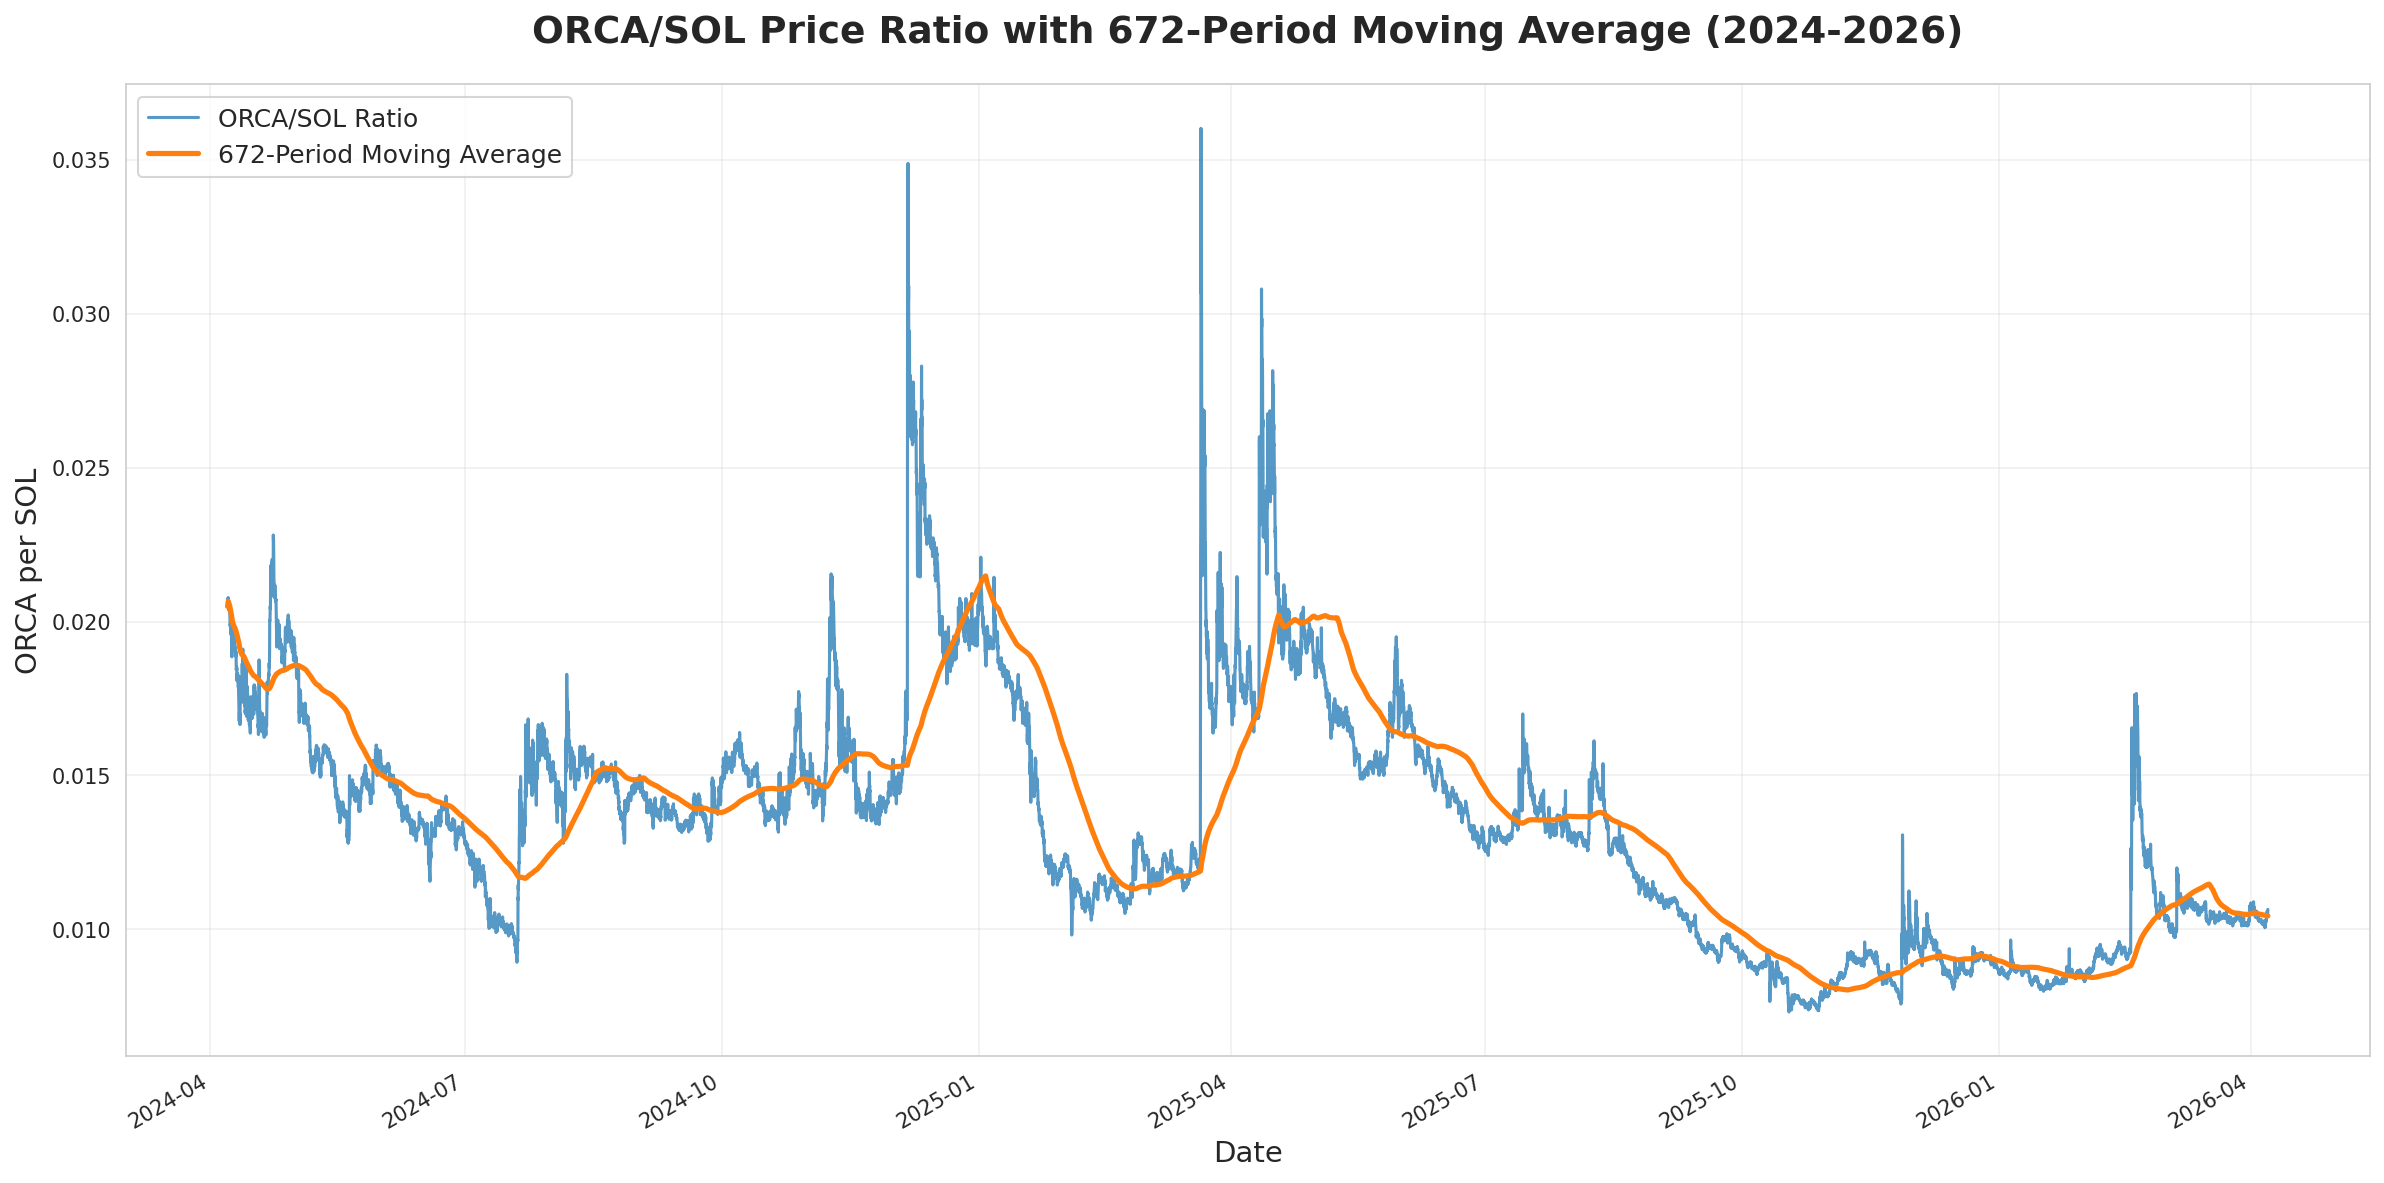
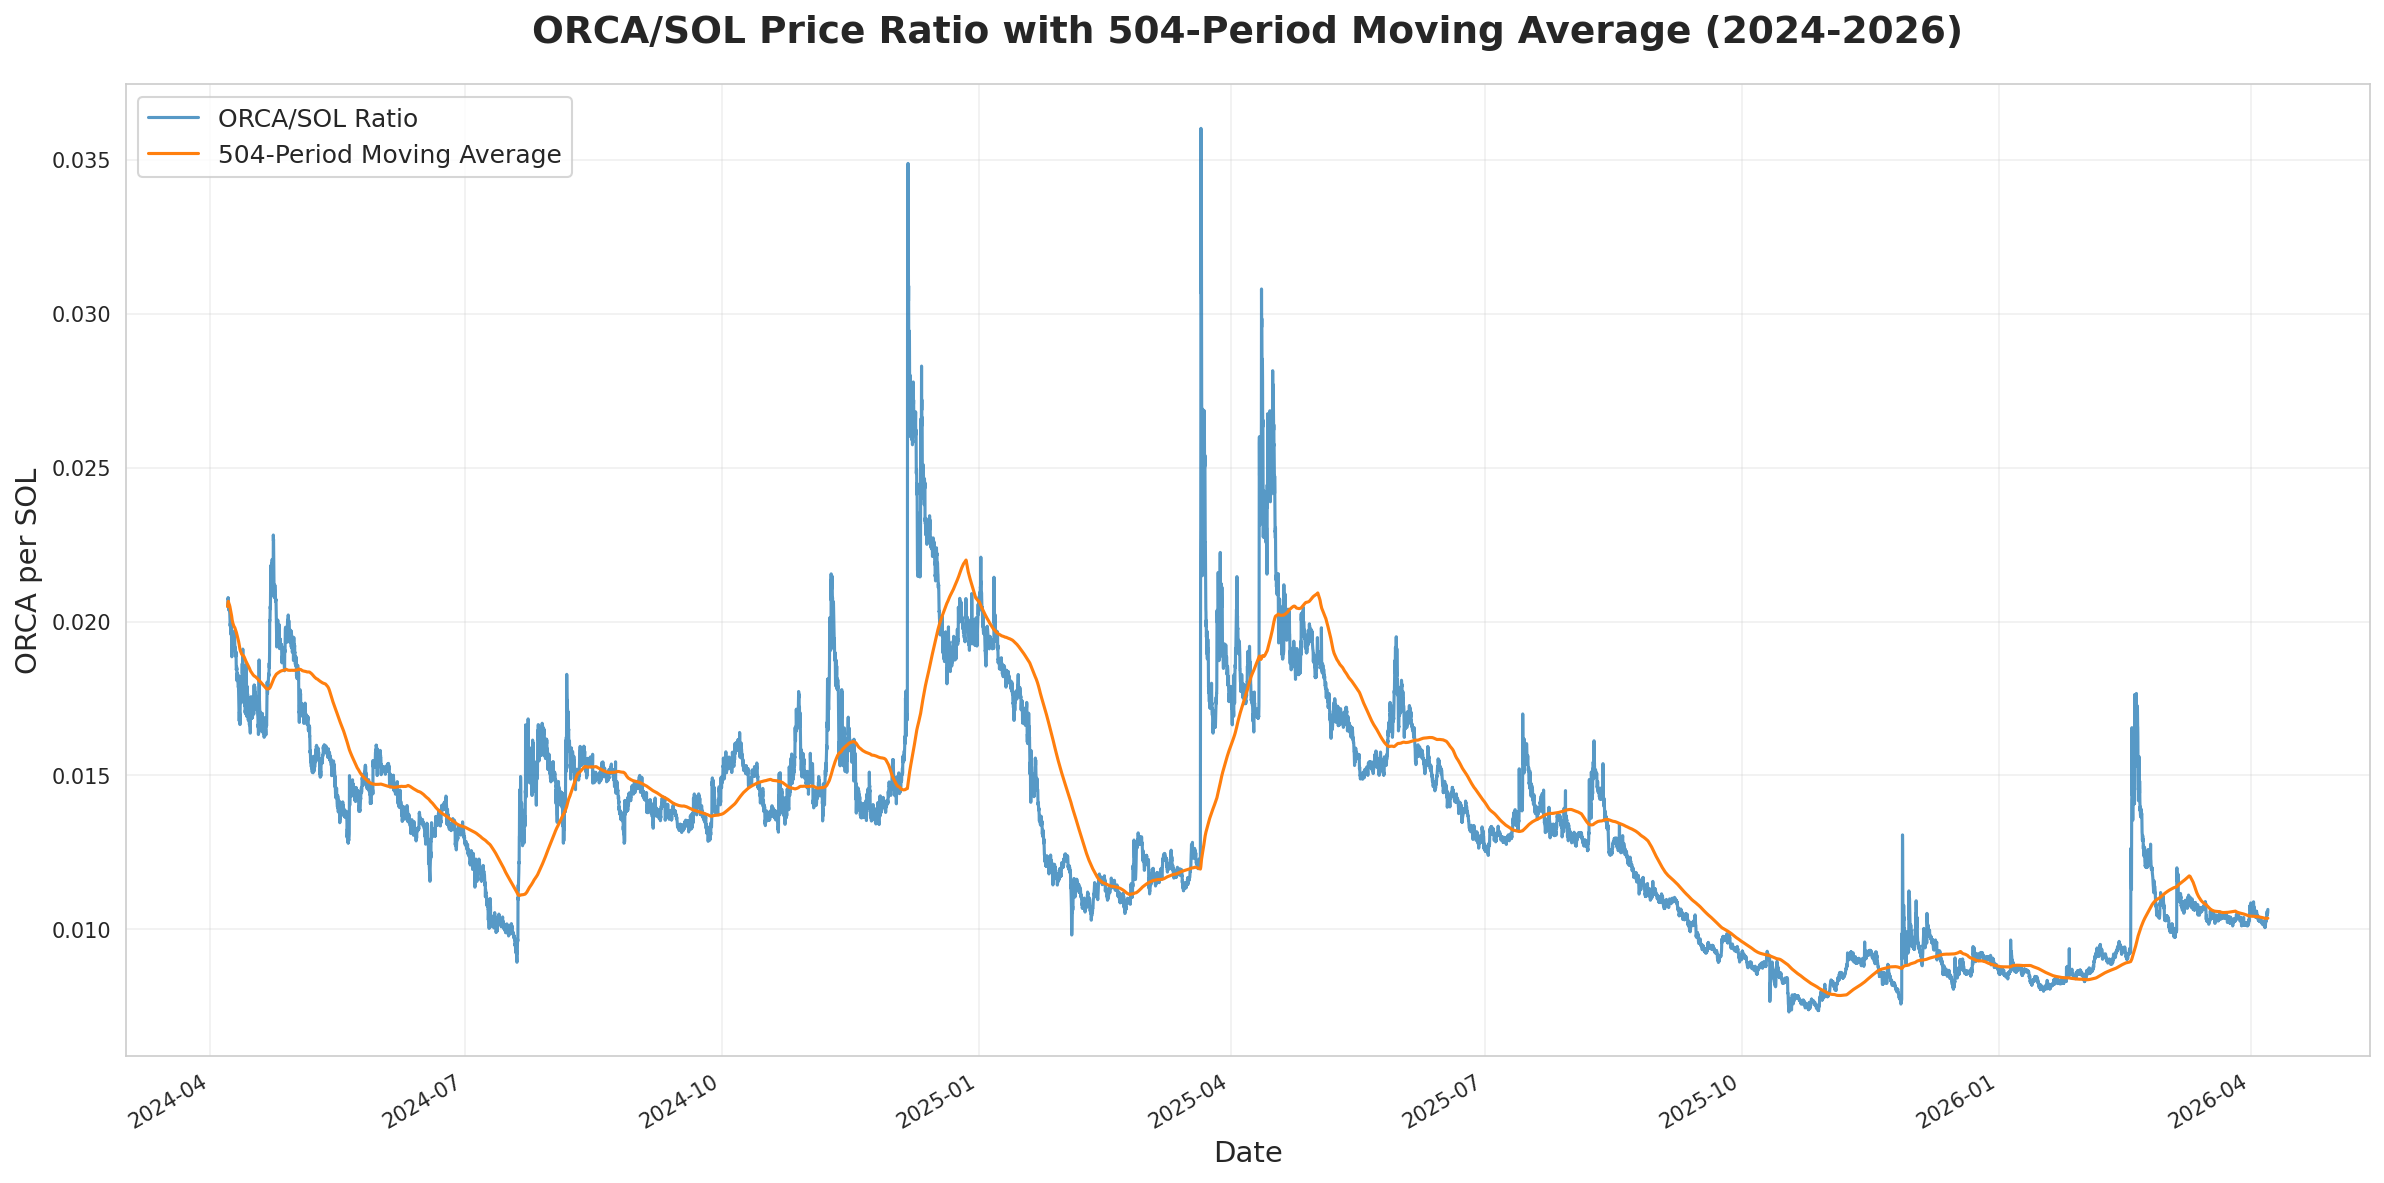
chart

diff --git a/src/v2/orca_sol_price_history.py b/src/v2/orca_sol_price_history.py
@@ -7,7 +7,7 @@ CONFIG = {
     'sol_file': 'sol_price_history.csv',      # no "fetched_data/" needed
     'orca_file': 'orca_price_history.csv',    # no "fetched_data/" needed
     'output_file': 'orca_sol_price_chart.png',
-    'ma_window': 24*7*4,
+    'ma_window': 24*7*3,
     'dpi': 150,
     'figsize': (16, 8),
     'title': None,                            # will be set dynamically
@@ -15,6 +15,7 @@ CONFIG = {
     'ylabel': 'ORCA per SOL',
     'line_color': '#1f77b4',                  # blue for raw ratio
     'ma_color': '#ff7f0e',                    # orange for MA
+    'ma_linewidth': 1.5,
     'alpha': 0.75,
     'grid_style': 'whitegrid',
     'start_date': None,                       # e.g. '2025-01-01' to zoom
@@ -80,12 +81,13 @@ sns.set_style(CONFIG['grid_style'])
 plt.plot(df.index, df['orca_sol'],
          label='ORCA/SOL Ratio',
          color=CONFIG['line_color'],
-         linewidth=1.5,
+         linewidth=1.5,                    # raw ratio line thickness (unchanged)
          alpha=CONFIG['alpha'])
+
 plt.plot(df.index, df['ma'],
          label=f'{CONFIG["ma_window"]}-Period Moving Average',
          color=CONFIG['ma_color'],
-         linewidth=2.5)
+         linewidth=CONFIG['ma_linewidth'])  # ← now fully configurable via CONFIG
 
 plt.title(CONFIG['title'], fontsize=18, pad=20, fontweight='bold')
 plt.xlabel(CONFIG['xlabel'], fontsize=14)